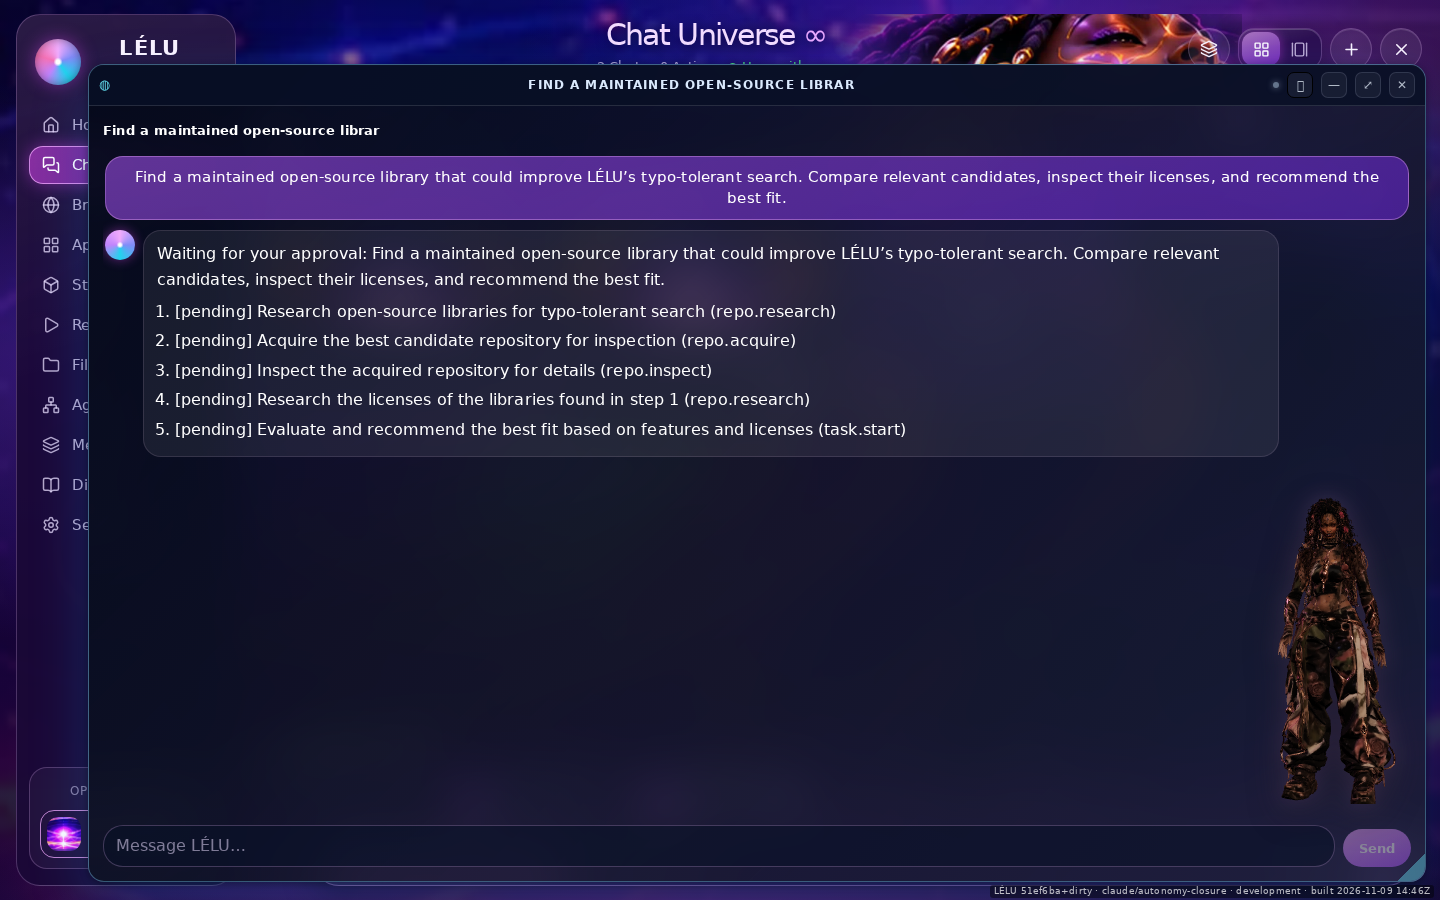
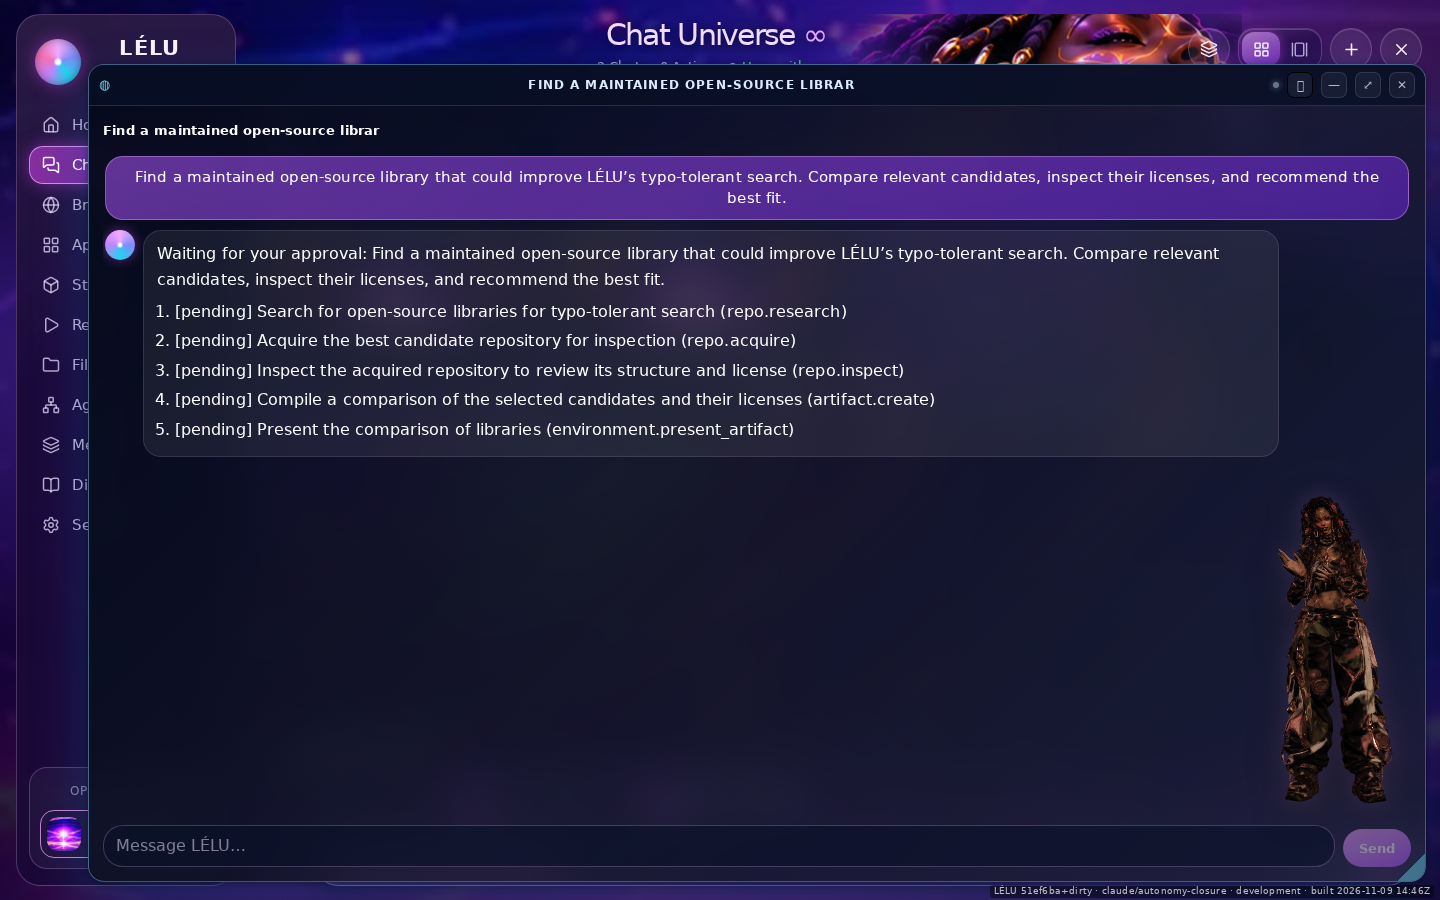
fix(consent): show approvals the event buffer had already forgotten
A waiting task renders its consent card from GenesisExecutionTimeline, which
seeded pending approvals from the last 40 bus events only. ApprovalGate keeps
those requests durably and resumes the task when one is decided, so a request
older than the buffer stayed invisible: the chat said "Waiting for your
approval" with no control to give it, and the plan could never continue.

The card is now seeded from the gate itself on mount, filtered by the same
conversation ownership rule the live events use. Same cards, same bus, one
source of truth — no second approval path and no tool that can approve itself.

Focused repository-workforce tests still 7/7; tsc clean. The card was not
re-verified in the browser after this change.

🤖 Generated with Codebuff

Changed region(s): [[0.1875, 0.4044, 0.6562, 0.4978], [0.875, 0.56, 0.9688, 0.9022], [0.1875, 0.3422, 0.5938, 0.3733]]

diff --git a/src/app/scene/genesis/GenesisExecutionTimeline.tsx b/src/app/scene/genesis/GenesisExecutionTimeline.tsx
@@ -32,6 +32,7 @@ import AgentEventBus, {
 } from "../../../core/agent/AgentEvents";
 import { genesisTheme } from "./GenesisTheme";
 import { ownerForTask } from "../../../core/multichat/TurnOwnership";
+import ApprovalGate from "../../../core/agentic/ApprovalGate";
 
 /* --------------------------- bounded store --------------------------- */
 
@@ -446,6 +447,35 @@ export default function GenesisExecutionTimeline({ conversationId, approvalsOnly
           },
         ]);
       }
+    }
+
+    // A consent point is DURABLE in ApprovalGate, but this view only replayed
+    // the event ring buffer — so a request older than the last 40 events was
+    // never rendered. A pending approval that is not on screen cannot be
+    // given, and the task waits forever while the chat says "waiting for your
+    // approval" with no control to give it. Seed from the gate itself: same
+    // cards, same bus, one source of truth (the gate), no second approval path.
+    for (const request of ApprovalGate.getInstance().pending() as Array<{
+      id: string;
+      taskId: string;
+      title?: string;
+      detail?: string;
+      systemsAffected?: string[];
+    }>) {
+      if (conversationId) {
+        const owner = ownerForTask(request.taskId);
+        if (owner !== null && owner !== conversationId) continue;
+      }
+      setApprovals((current) => [
+        ...current.filter((a) => a.approvalId !== request.id),
+        {
+          approvalId: request.id,
+          taskId: request.taskId,
+          title: request.title ?? "Approve this step?",
+          detail: request.detail ?? "",
+          systemsAffected: request.systemsAffected ?? [],
+        },
+      ]);
     }
 
     return bus.subscribe((event) => {
